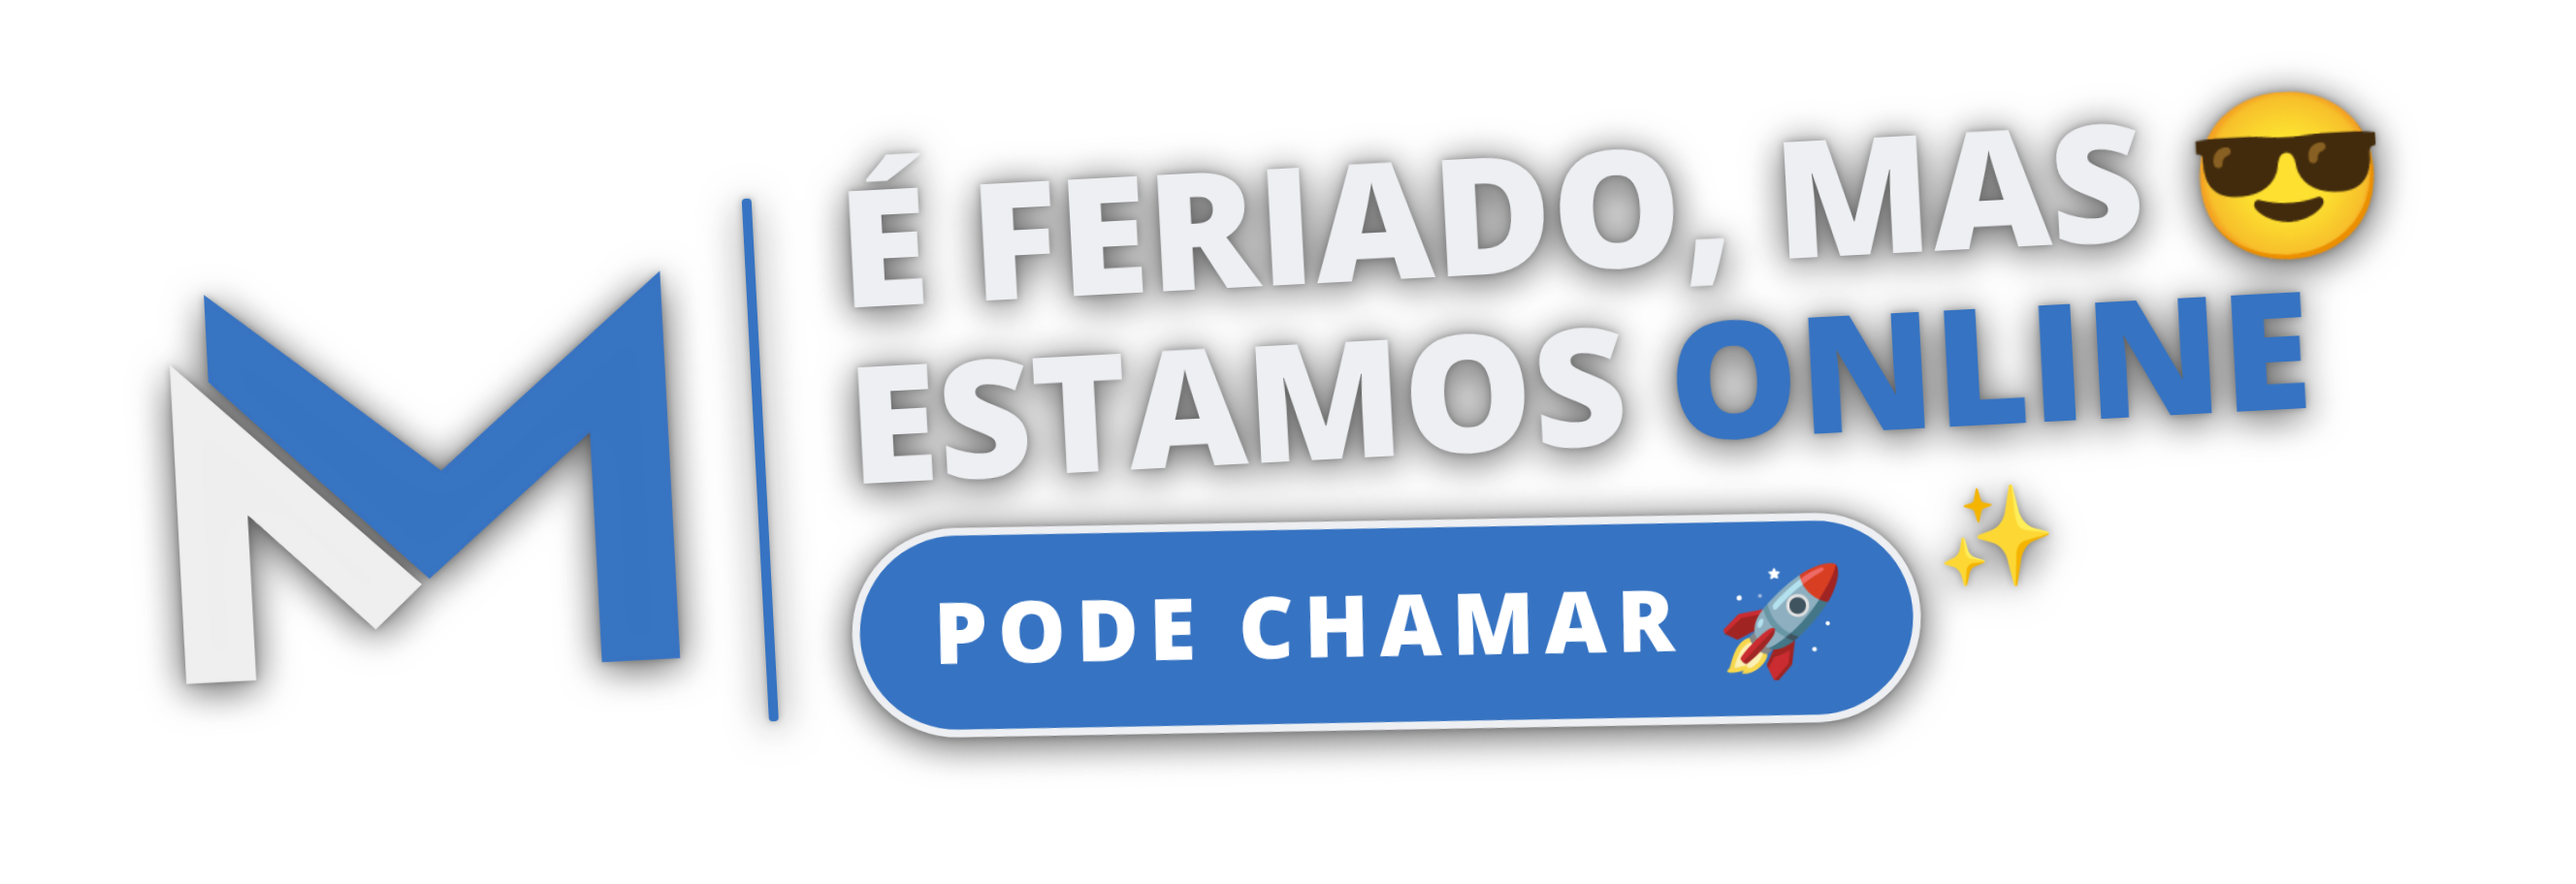
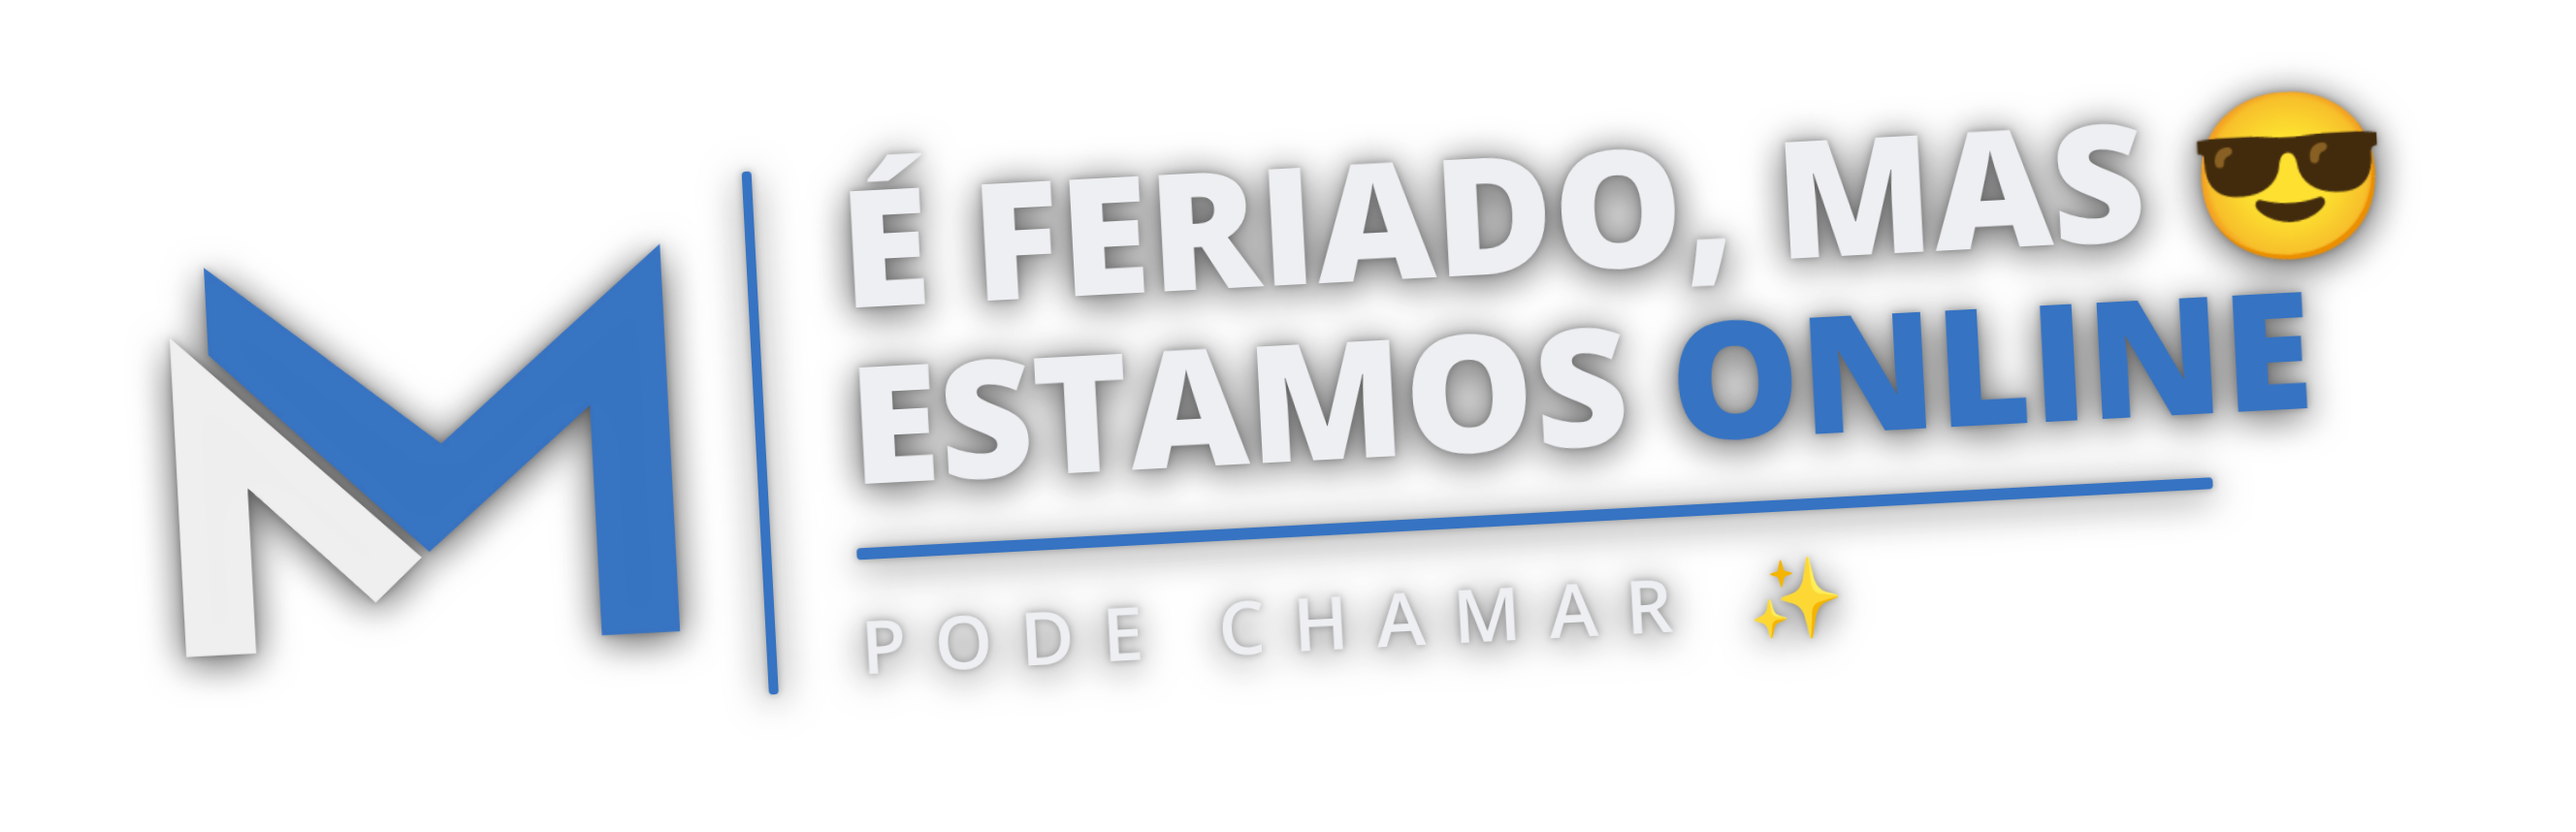
docs(posicionamento): adesivo de feriado sem o selo e sem o foguete (pedido do dono)
Claude-Session: https://claude.ai/code/session_018X91MFfPMRMPYSAfb3KdfT

diff --git a/docs/posicionamento/stories/2026-10-12-feriado-online/adesivo-divertido.html b/docs/posicionamento/stories/2026-10-12-feriado-online/adesivo-divertido.html
@@ -13,8 +13,11 @@
    font-weight:800;font-size:44px;letter-spacing:.12em;transform:rotate(2deg);box-shadow:0 0 0 4px #EDEFF2}
  .pill span{font-size:54px;letter-spacing:0}
  .brilho{position:absolute;font-size:46px}
+ .regra{height:6px;width:calc(100% - 100px);background:#3673C2;margin:20px 0 16px;border-radius:2px}
+ .sub{font-weight:600;font-size:38px;letter-spacing:.38em;white-space:nowrap}
+ .sub span{letter-spacing:0;font-size:40px}
 </style></head><body>
 <section class="lamina"><div class="wrap"><img class="simb" src="../../../../public/assets/matheus-machado-symbol.png"><span class="barra"></span>
  <div style="position:relative"><div class="t">É FERIADO, MAS 😎</div><div class="t">ESTAMOS <em>ONLINE</em></div>
- <div class="pill">PODE CHAMAR <span>🚀</span></div><span style="font-size:50px;margin-left:14px;vertical-align:28px;display:inline-block">✨</span></div></div></section>
+ <div class="regra"></div><div class="sub">PODE CHAMAR <span>✨</span></div></div></div></section>
 </body></html>
